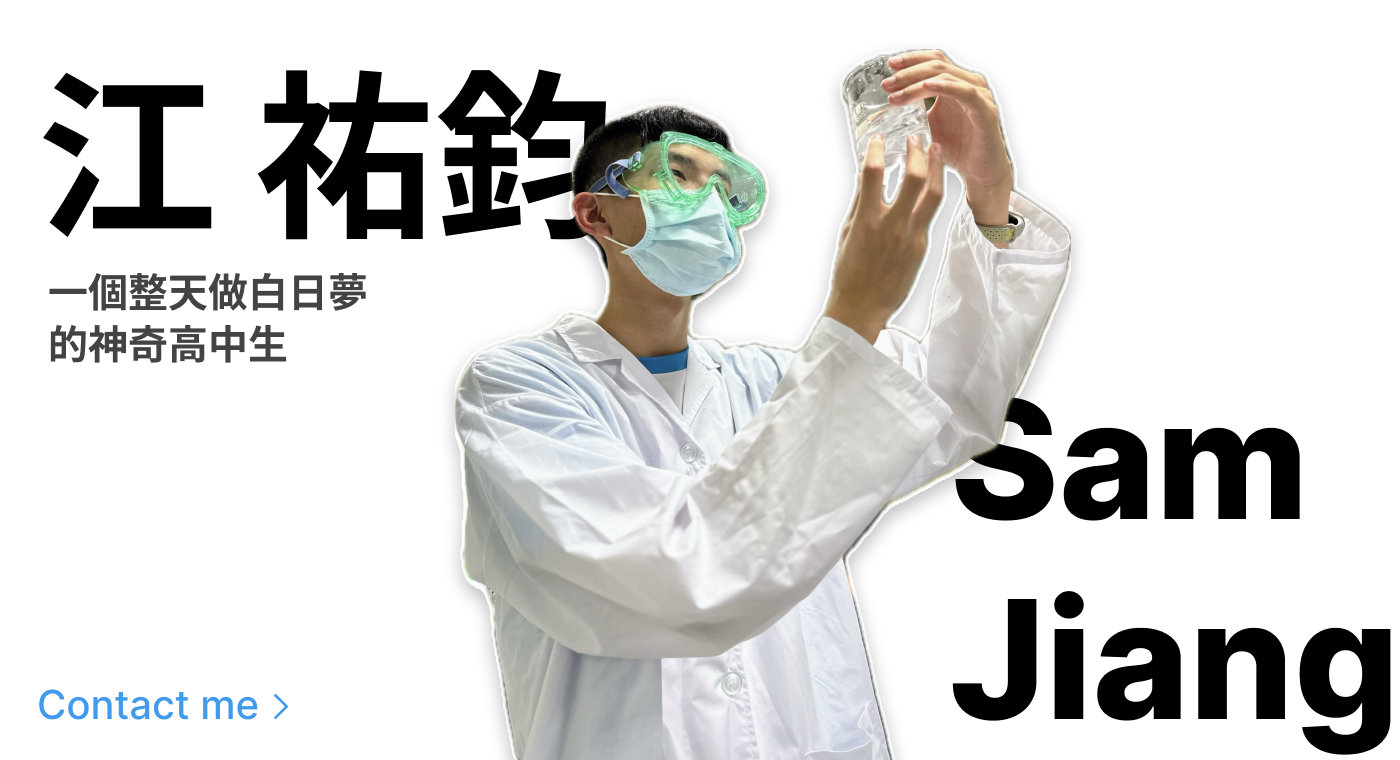
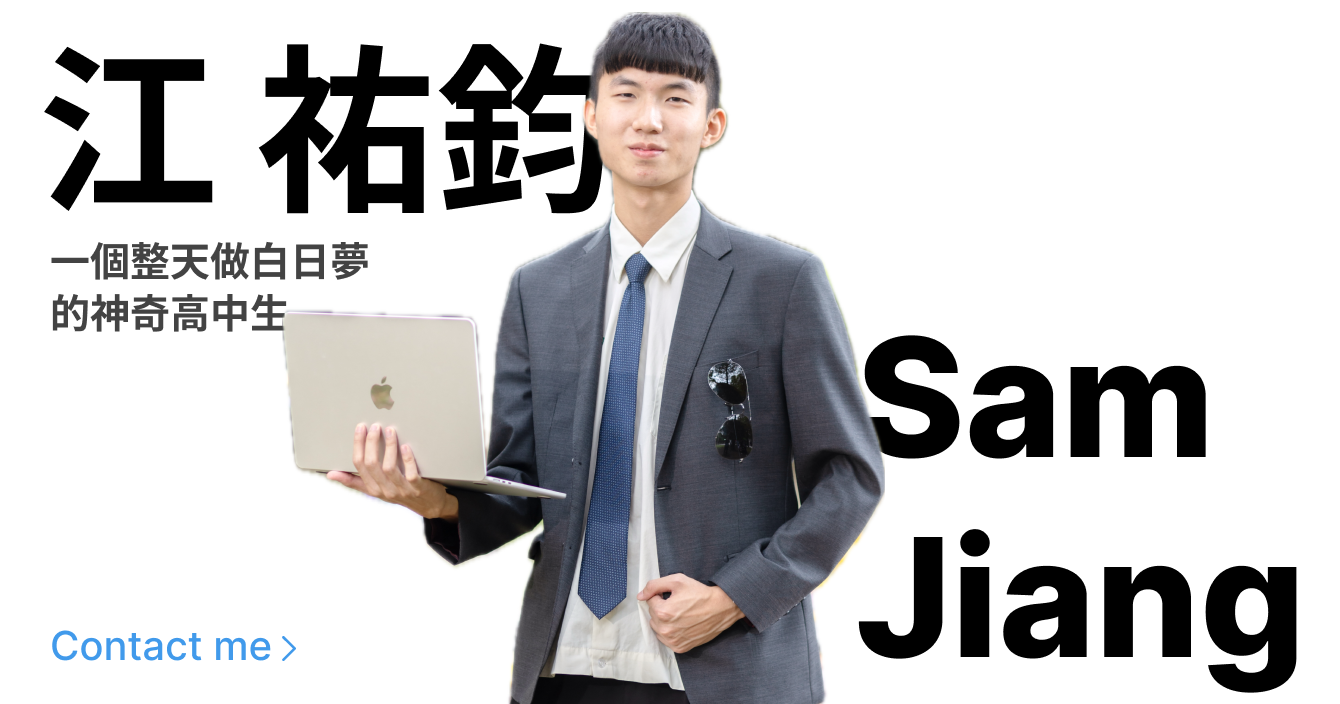
update new design

diff --git a/index.css b/index.css
@@ -1,14 +1,31 @@
 #topTabBar {
-    width: 90%;
-    height: 60px;
-    border-radius: 50px;
+    width: 100%;
+    height: 80px;
+    border-radius: 0px;
     background: rgba(255, 255, 255, 0.63);
-    box-shadow: 2px 2px 20px 0px rgba(0, 0, 0, 0.20);
+    box-shadow: 0px 2px 10px 0px rgba(0, 0, 0, 0.20);
     backdrop-filter: blur(10px);
     position: fixed;
-    top: 2%;
+    flex-direction: row;
+    top: 0px;
     left: 50%;
-    margin-left: -45%;
+    margin-left: -50%;
+}
+
+.toolBarText {
+    color: #000;
+    font-family: Inter;
+    font-size: 24px;
+    font-style: normal;
+    line-height: normal;
+    margin: 0px;
+}
+
+#toolBarName {
+    margin-left: 2%;
+    display: flex;
+    flex-direction: column;
+    margin-top: 6px;
 }
 
 #mainPhotoPage {
@@ -16,6 +33,6 @@
     margin-right: auto;
     margin-top: 100px;
     display: block;
-    max-width: 95%;
+    max-width: 80%;
     height: auto;
 }

diff --git a/index.html b/index.html
@@ -7,7 +7,8 @@
     <link rel="stylesheet" href="index.css">
 </head>
 <body style="background-color: #F1E6DE;">
-    <div id="topTabBar"></div>
+    <div id="topTabBar"><div id="toolBarName"><p class="toolBarText">Sam Jiang</p><p class="toolBarText">江祐鈞</p></div></div>
     <img id="mainPhotoPage" src="mainPhotoPage.png" />
+    
 </body>
 </html>
